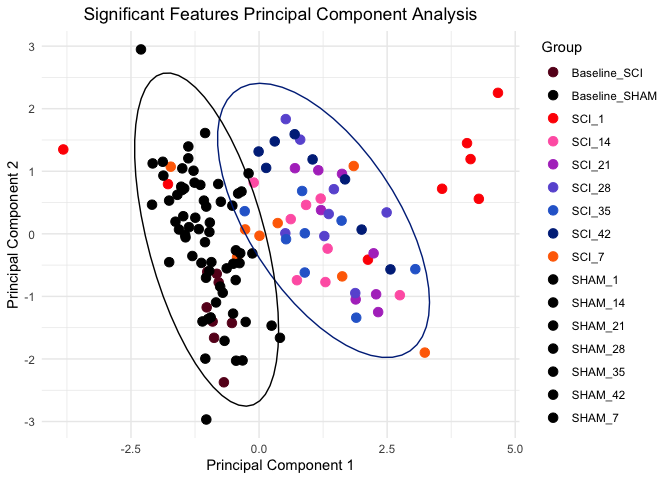
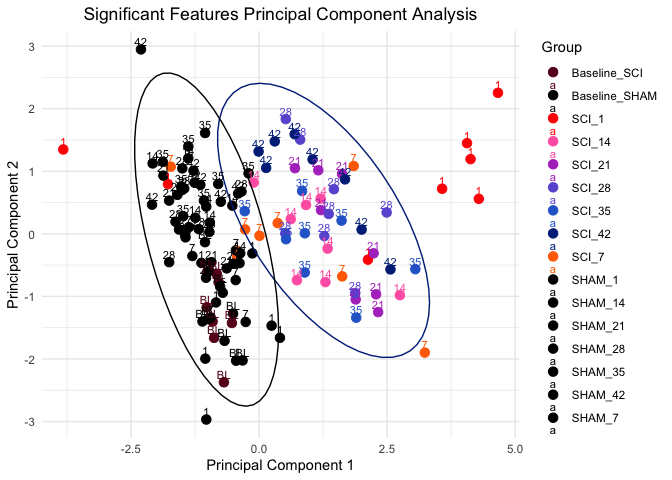
PCA Edits

diff --git a/PCA/Blackbox_PCA.md b/PCA/Blackbox_PCA.md
@@ -82,7 +82,7 @@ custom_colors <- c(
 
 pca_df$Group <- group
 pca_df$Model <- model
-Sample <- rep(c("B",1, 7, 14, 21, 28, 35, 42), each = 8, length.out = 128)
+Sample <- rep(c("BL",1, 7, 14, 21, 28, 35, 42), each = 8, length.out = 128)
 pca_df$Sample <- Sample
 ```
 
@@ -100,6 +100,7 @@ pca_plot <- function() {
     geom_point(size = 3) +
     stat_ellipse(data = SCI_regen_df, aes(x = PC1, y = PC2), type = "norm", level = 0.95, color = custom_colors[['SCI_42']]) +
     stat_ellipse(data = SHAM_df, aes(x = PC1, y = PC2), type = "norm", level = 0.95, color = custom_colors[['SHAM_1']]) +
+    geom_text(data =, aes(label = Sample), vjust = -0.5, size = 3) +
     labs(title = "Significant Features Principal Component Analysis",
          x = "Principal Component 1",
          y = "Principal Component 2") +
@@ -183,9 +184,9 @@ manova_analysis <- function() {
   }
   
   manova_models_list <- manova_tests()
-  manova_models_list[["Bvs42"]] <-
+  manova_models_list[["BLvs42"]] <-
     manova(cbind(PC1, PC2) ~ Sample, data = pca_df[
-      (pca_df$Sample == "B" & pca_df$Model == "SCI") |
+      (pca_df$Sample == "BL" & pca_df$Model == "SCI") |
         (pca_df$Sample == "42" & pca_df$Model == "SCI"),
     ])
   
@@ -202,7 +203,7 @@ manova_analysis <- function() {
   
   manova_pvals_df$model <- factor(
     manova_pvals_df$model,
-    levels = c("B", "1", "7", "14", "21", "28", "35", "42", "Bvs42")
+    levels = c("BL", "1", "7", "14", "21", "28", "35", "42", "BLvs42")
   )
   
   manova_pvals_df$label <- lapply(manova_pvals_df$p_value, function(pval) {
@@ -219,7 +220,7 @@ manova_analysis <- function() {
       x = "Model",
       y = "p-value",
       title = "MANOVA p-values with Significance Cutoff",
-      caption = "Bvs42 - Baseline (SCI) vs post-SCI Day 42 (SCI)") +
+      caption = "BLvs42 - Baseline (SCI) vs post-SCI Day 42 (SCI)") +
     theme_minimal() +
     theme(plot.title = element_text(face="bold", hjust = 0.5))
 }
